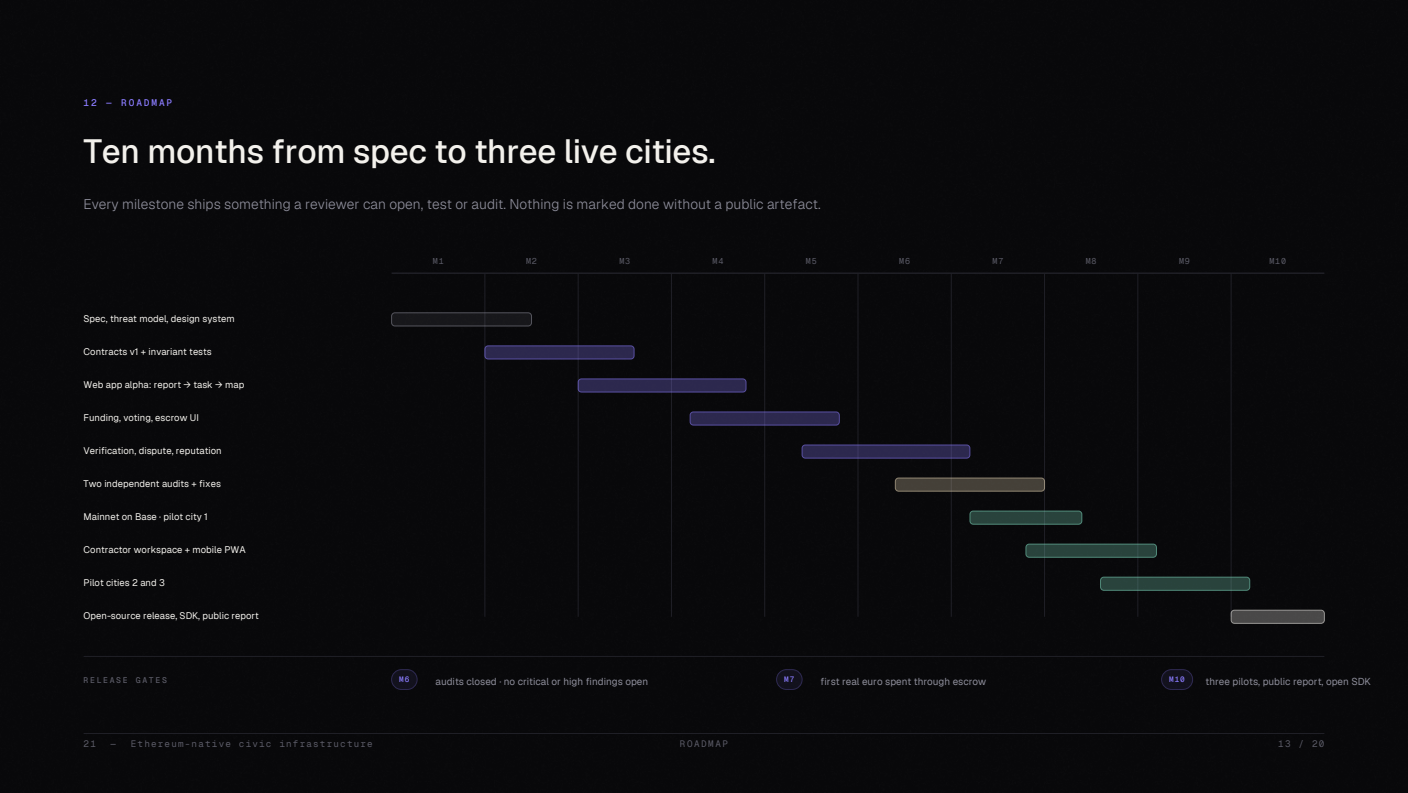
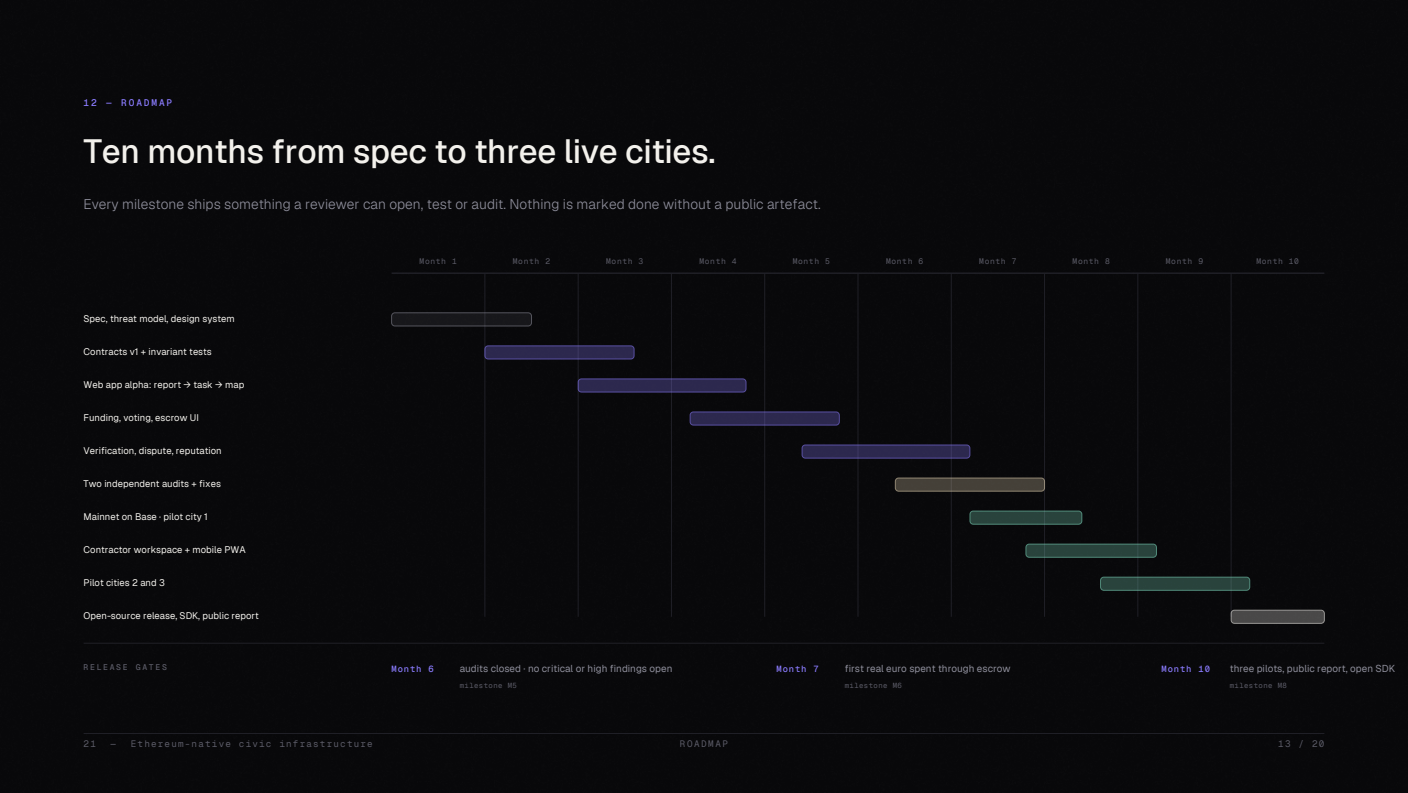
Roadmap: label the axis in months and name the release gates

diff --git a/grant/tools/build.py b/grant/tools/build.py
@@ -693,7 +693,8 @@ def s13(c, idx):
     colw = (W - M - x0) / 10
     hline(c, x0, y0 - 14, W - M, LINE)
     for i in range(10):
-        text(c, x0 + colw * i + colw / 2, y0 - 22, f"M{i + 1}", MONO, 7.6, MUT_DIM, 0.8, "center")
+        text(c, x0 + colw * i + colw / 2, y0 - 22, f"Month {i + 1}", MONO, 7.2,
+             MUT_DIM, 0.6, "center")
         if i:
             vline(c, x0 + colw * i, y0 - 14, 560, LINE_SOFT, 0.5)
 
@@ -723,16 +724,19 @@ def s13(c, idx):
     for gx, name in gates:
         pass
 
-    y = 596
+    y = 584
     hline(c, M, y, W - M, LINE_SOFT)
     label(c, M, y + 24, "Release gates", MUT_DIM, 7.4, 1.5)
-    gates_text = [("M6", "audits closed \u00b7 no critical or high findings open"),
-                  ("M7", "first real euro spent through escrow"),
-                  ("M10", "three pilots, public report, open SDK")]
-    for i, (g, t) in enumerate(gates_text):
-        x = 356 + i * 350
-        U.chip(c, x, y + 12, g, VIO, alpha(VIO, 0.08), alpha(VIO, 0.3), 7, 18, 7)
-        text(c, x + 40, y + 26, t, R, 9, MUT)
+    gates_text = [("Month 6", "audits closed \u00b7 no critical or high findings open",
+                   "milestone M5"),
+                  ("Month 7", "first real euro spent through escrow", "milestone M6"),
+                  ("Month 10", "three pilots, public report, open SDK", "milestone M8")]
+    x = 356
+    for i, (g, t, ms) in enumerate(gates_text):
+        text(c, x, y + 26, g, MONO_MED, 8, VIO, 0.8)
+        text(c, x + 62, y + 26, t, R, 9, MUT)
+        text(c, x + 62, y + 41, ms, MONO, 6.6, MUT_DIM, 0.4)
+        x += 350
     foot(c, idx, "Roadmap")
 
 
